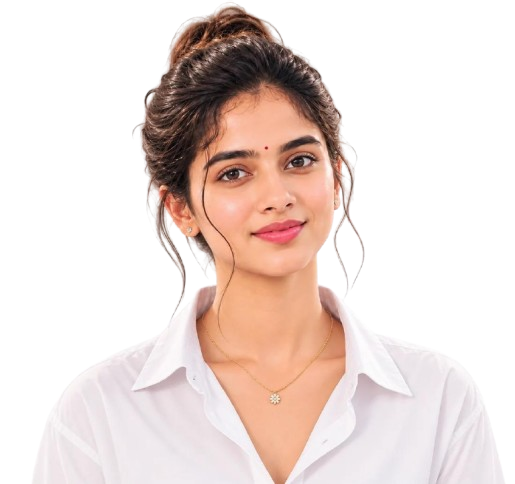
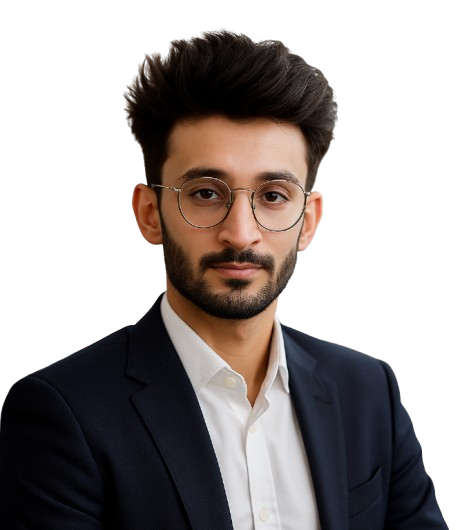
ds

diff --git a/src/data/portfolio.ts b/src/data/portfolio.ts
@@ -1,5 +1,5 @@
 /**
- * Central portfolio data — generated from Sushmita's resume (Sushmita_dasari.pdf).
+ * Central portfolio data — generated from Rayyan's resume (Rayyan_dasari.pdf).
  * Every fact on the site comes from this file. Update it here and the whole site follows.
  * Nothing here should be added unless it appears on the resume.
  */
@@ -7,9 +7,9 @@
 export type Palette = { from: string; via: string; to: string; accent: string };
 
 export const profile = {
-  fullName: 'Dasari Venkata Ratna Sri Sushmita',
-  displayName: 'Sushmita Dasari',
-  firstName: 'SUSHMITA',
+  fullName: 'Dasari Venkata Ratna Sri Rayyan',
+  displayName: 'Rayyan Ali
+  firstName: 'Rayyan',
   seriesTag: 'THE SERIES',
   /** Fictional studio card shown at the very start of the opening sequence. */
   originalLabel: 'A DASARI ORIGINAL',
@@ -18,16 +18,16 @@ export const profile = {
   intro:
     'A B.Tech Artificial Intelligence & Machine Learning student (CGPA 9.10) and full-stack developer building AI-powered platforms, payment systems and multi-tenant SaaS with Java, Python, React, Node.js and Docker.',
   location: 'Surampalem, Andhra Pradesh',
-  email: 'sushmitadasari17@gmail.com',
+  email: 'Rayyandasari17@gmail.com',
   links: {
-    linkedin: 'https://www.linkedin.com/in/sushmita-dasari-227a40284/',
-    github: 'https://github.com/Sushmitadasari',
+    linkedin: 'https://www.linkedin.com/in/Rayyan-dasari-227a40284/',
+    github: 'https://github.com/Rayyandasari',
   },
-  resumePdf: '/assets/Sushmita_Dasari_Resume.pdf',
+  resumePdf: '/assets/Rayyan_Dasari_Resume.pdf',
   portrait: {
     src: '/assets/portrait-720.webp',
     srcSet: '/assets/portrait-420.webp 420w, /assets/portrait-720.webp 720w, /assets/portrait-1100.webp 1100w',
-    alt: 'Portrait of Sushmita Dasari',
+    alt: 'Portrait of Rayyan Ali
   },
   interests: ['System Design', 'Cloud Computing (AWS)', 'Machine Learning'],
 };
@@ -107,8 +107,8 @@ export const projects: Project[] = [
       { value: '45%', label: 'faster decision turnaround' },
       { value: '8', label: 'policy categories' },
     ],
-    // The resume links to https://github.com/Sushmitadasari/PolicyGuard-AI, which is not public yet (404).
-    // Add `github: 'https://github.com/Sushmitadasari/PolicyGuard-AI',` back once the repo is public.
+    // The resume links to https://github.com/Rayyandasari/PolicyGuard-AI, which is not public yet (404).
+    // Add `github: 'https://github.com/Rayyandasari/PolicyGuard-AI',` back once the repo is public.
     palette: { from: '#2a0610', via: '#7a0f24', to: '#0b0710', accent: '#ff3d5a' },
     motif: 'shield',
   },
@@ -136,7 +136,7 @@ export const projects: Project[] = [
       { value: '40%', label: 'faster API response' },
       { value: '3×', label: 'throughput under load' },
     ],
-    github: 'https://github.com/Sushmitadasari/Payment-gateway-system-Project',
+    github: 'https://github.com/Rayyandasari/Payment-gateway-system-Project',
     palette: { from: '#1a0d02', via: '#8a4a07', to: '#0a0806', accent: '#ffb547' },
     motif: 'flow',
   },
@@ -163,7 +163,7 @@ export const projects: Project[] = [
       { value: '0', label: 'unauthorized-access incidents' },
       { value: '45m → <2m', label: 'environment setup time' },
     ],
-    github: 'https://github.com/Sushmitadasari/Multi-Tenant-SaaS-Platform',
+    github: 'https://github.com/Rayyandasari/Multi-Tenant-SaaS-Platform',
     palette: { from: '#04121f', via: '#0f4c6e', to: '#05080d', accent: '#4cc9ff' },
     motif: 'tenants',
   },
@@ -563,7 +563,7 @@ export const introSlides: IntroSlide[] = [
   },
 ];
 
-export type ProfileId = 'sushmita' | 'recruiter' | 'developer' | 'creative';
+export type ProfileId = 'Rayyan' | 'recruiter' | 'developer' | 'creative';
 export type SectionId = 'about' | 'journey' | 'originals' | 'picks' | 'skills' | 'moments' | 'story';
 
 export const viewerProfiles: {
@@ -574,8 +574,8 @@ export const viewerProfiles: {
   order: SectionId[];
 }[] = [
   {
-    id: 'sushmita',
-    name: 'Sushmita',
+    id: 'Rayyan',
+    name: 'Rayyan',
     blurb: 'The full series, in order',
     color: '#e5132b',
     order: ['about', 'journey', 'originals', 'picks', 'skills', 'moments', 'story'],

diff --git a/src/components/ProfileSelector.tsx b/src/components/ProfileSelector.tsx
@@ -6,7 +6,7 @@ import { EASE } from './fx';
 export function ProfileAvatar({ id, size = 'lg' }: { id: ProfileId; size?: 'sm' | 'lg' }) {
   const p = viewerProfiles.find((v) => v.id === id)!;
   const box = size === 'lg' ? 'h-24 w-24 sm:h-32 sm:w-32 md:h-36 md:w-36 rounded-xl' : 'h-8 w-8 rounded-md';
-  if (id === 'sushmita') {
+  if (id === 'Rayyan') {
     return (
       <span className={`relative block overflow-hidden ${box}`} style={{ background: 'radial-gradient(circle at 50% 30%, #7a0f24, #1a0509)' }}>
         <img src="/assets/portrait-420.webp" alt="" className="absolute inset-x-0 bottom-0 mx-auto h-[115%] w-auto max-w-none -translate-x-[3%] object-cover object-top" />
@@ -27,7 +27,7 @@ export function ProfileAvatar({ id, size = 'lg' }: { id: ProfileId; size?: 'sm' 
 export default function ProfileSelector({ onPick }: { onPick: (id: ProfileId) => void }) {
   useEffect(() => {
     const onKey = (e: KeyboardEvent) => {
-      if (e.key === 'Escape') onPick('sushmita');
+      if (e.key === 'Escape') onPick('Rayyan');
     };
     window.addEventListener('keydown', onKey);
     return () => window.removeEventListener('keydown', onKey);
@@ -63,7 +63,7 @@ export default function ProfileSelector({ onPick }: { onPick: (id: ProfileId) =>
             <button type="button" onClick={() => onPick(p.id)} data-cursor="play" className="group flex flex-col items-center gap-3 text-center">
               <span className="relative rounded-xl ring-2 ring-transparent transition duration-300 group-hover:scale-105 group-hover:ring-bone group-focus-visible:ring-bone">
                 <ProfileAvatar id={p.id} />
-                {p.id === 'sushmita' && (
+                {p.id === 'Rayyan' && (
                   <span className="absolute -right-2 -top-2 rounded-full bg-crimson px-2 py-0.5 text-[9px] font-bold tracking-[0.18em] text-white">MAIN</span>
                 )}
               </span>

diff --git a/src/components/ResumeModal.tsx b/src/components/ResumeModal.tsx
@@ -30,7 +30,7 @@ export default function ResumeModal({ onClose }: { onClose: () => void }) {
       <div className="gutter flex h-16 shrink-0 items-center justify-between gap-3 pt-[env(safe-area-inset-top)]">
         <p className="truncate font-display text-2xl tracking-wide text-bone">The Full Story</p>
         <div className="flex items-center gap-2">
-          <a href={profile.resumePdf} download="Sushmita_Dasari_Resume.pdf" className="rounded-md bg-bone px-4 py-2 text-xs font-bold text-ink">
+          <a href={profile.resumePdf} download="Rayyan_Dasari_Resume.pdf" className="rounded-md bg-bone px-4 py-2 text-xs font-bold text-ink">
             ⤓ Download
           </a>
           <button type="button" onClick={onClose} aria-label="Close resume" data-cursor="close" className="flex h-10 w-10 items-center justify-center rounded-full bg-white/10 text-bone hover:bg-white/20">
@@ -52,7 +52,7 @@ export default function ResumeModal({ onClose }: { onClose: () => void }) {
             </a>
           </div>
         ) : (
-          <iframe title="Sushmita Dasari resume (PDF)" src={`${profile.resumePdf}#view=FitH`} className="h-full w-full rounded-xl bg-white" />
+          <iframe title="Rayyan Ali resume (PDF)" src={`${profile.resumePdf}#view=FitH`} className="h-full w-full rounded-xl bg-white" />
         )}
       </motion.div>
     </motion.div>

diff --git a/index.html b/index.html
@@ -3,10 +3,10 @@
   <head>
     <meta charset="UTF-8" />
     <meta name="viewport" content="width=device-width, initial-scale=1.0, viewport-fit=cover" />
-    <title>Sushmita — The Series</title>
-    <meta name="description" content="Sushmita Dasari — Full-Stack Developer and B.Tech AI & ML student. A cinematic, streaming-inspired portfolio." />
+    <title>Rayyan — The Series</title>
+    <meta name="description" content="Rayyan Ali — Full-Stack Developer and B.Tech AI & ML student. A cinematic, streaming-inspired portfolio." />
     <meta name="theme-color" content="#07070a" />
-    <meta property="og:title" content="Sushmita — The Series" />
+    <meta property="og:title" content="Rayyan — The Series" />
     <meta property="og:description" content="Full-Stack Developer • AI / ML • Java. Every project is an Original." />
     <meta property="og:image" content="/assets/og-image.jpg" />
     <meta name="twitter:card" content="summary_large_image" />
@@ -18,7 +18,7 @@
   </head>
   <body>
     <div id="root"></div>
-    <noscript>Sushmita Dasari — Full-Stack Developer. Please enable JavaScript to watch the series.</noscript>
+    <noscript>Rayyan Ali — Full-Stack Developer. Please enable JavaScript to watch the series.</noscript>
     <script type="module" src="/src/main.tsx"></script>
   </body>
 </html>

diff --git a/src/App.tsx b/src/App.tsx
@@ -26,7 +26,7 @@ const ResumeModal = lazy(() => import('./components/ResumeModal'));
 
 type Stage = 'opening' | 'profiles' | 'home';
 
-const STORAGE_KEY = 'sushmita-series-profile';
+const STORAGE_KEY = 'Rayyan-series-profile';
 
 function readStoredProfile(): ProfileId | null {
   try {
@@ -48,7 +48,7 @@ export default function App() {
 function Series() {
   const stored = readStoredProfile();
   const [stage, setStage] = useState<Stage>(stored ? 'home' : 'opening');
-  const [profileId, setProfileId] = useState<ProfileId>(stored ?? 'sushmita');
+  const [profileId, setProfileId] = useState<ProfileId>(stored ?? 'Rayyan');
   const [playing, setPlaying] = useState(false);
   const [project, setProject] = useState<Project | null>(null);
   const [resumeOpen, setResumeOpen] = useState(false);

diff --git a/src/components/Originals.tsx b/src/components/Originals.tsx
@@ -41,7 +41,7 @@ function Outro() {
     >
       <span className="flex h-16 w-16 items-center justify-center rounded-full border border-white/25 text-2xl text-bone transition group-hover:scale-110 group-hover:border-crimson-2 group-hover:text-crimson-2">↗</span>
       <span className="font-display text-3xl tracking-wide text-bone">More on GitHub</span>
-      <span className="text-xs text-mist">github.com/Sushmitadasari</span>
+      <span className="text-xs text-mist">github.com/Rayyandasari</span>
     </a>
   );
 }

diff --git a/src/components/ResumeViewer.tsx b/src/components/ResumeViewer.tsx
@@ -38,7 +38,7 @@ export default function ResumeSection({ onView }: { onView: () => void }) {
             <Magnetic className="w-full">
               <a
                 href={profile.resumePdf}
-                download="Sushmita_Dasari_Resume.pdf"
+                download="Rayyan_Dasari_Resume.pdf"
                 data-cursor="link"
                 className="glass flex min-h-12 w-full items-center justify-center gap-2 rounded-md px-6 text-[15px] font-semibold text-bone transition hover:bg-white/15"
               >

diff --git a/src/components/TopPicks.tsx b/src/components/TopPicks.tsx
@@ -9,7 +9,7 @@ export default function TopPicks() {
   const rail = useRef<HTMLDivElement>(null);
   return (
     <>
-      <SectionHeading kicker="Top 10 · from the resume" title="Sushmita's Top Picks" />
+      <SectionHeading kicker="Top 10 · from the resume" title="Rayyan's Top Picks" />
       <div className="group/rail relative">
         <div ref={rail} className="rail gutter flex snap-x snap-mandatory gap-2 overflow-x-auto py-6">
           {topPicks.map((pick, i) => (

diff --git a/src/components/OpeningSequence.tsx b/src/components/OpeningSequence.tsx
@@ -6,7 +6,7 @@ import { EASE, Magnetic } from './fx';
 
 /**
  * The signature moment:
- * black → studio card → SUSHMITA → THE SERIES → portrait reveal → role → ▶ PLAY
+ * black → studio card → Rayyan → THE SERIES → portrait reveal → role → ▶ PLAY
  */
 const TIMELINE = [
   { at: 300, beat: 1 }, // studio card

diff --git a/README.md b/README.md
@@ -1,6 +1,6 @@
-# SUSHMITA — THE SERIES
+# Rayyan — THE SERIES
 
-A cinematic, streaming-inspired portfolio for **Sushmita Dasari**: Full-Stack Developer and B.Tech AI & ML student.
+A cinematic, streaming-inspired portfolio for **Rayyan Ali**: Full-Stack Developer and B.Tech AI & ML student.
 Every section is an episode, every project is an Original, and the whole site plays like a series.
 
 > A personal portfolio with a fictional streaming-platform look. It is not affiliated with Netflix or any other streaming service and uses none of their logos.
@@ -41,7 +41,7 @@ The static site is written to `dist/` and can be deployed as-is to Vercel, Netli
 | Profile order (Recruiter / Developer / Creative) | `viewerProfiles` |
 | Opening studio card text | `profile.originalLabel` |
 
-**Resume:** replace `public/assets/Sushmita_Dasari_Resume.pdf`.
+**Resume:** replace `public/assets/Rayyan_Dasari_Resume.pdf`.
 
 **Photo:** replace `pic1.jpeg` (high-res photo) and `pic.png` (background-removed cutout with the same framing), then run:
 
@@ -58,7 +58,7 @@ src/
   data/portfolio.ts        ← single source of truth (from the resume)
   App.tsx                  ← stages: opening → profile select → home; overlays
   components/
-    OpeningSequence        ← black → studio card → SUSHMITA → THE SERIES → portrait → ▶ PLAY
+    OpeningSequence        ← black → studio card → Rayyan → THE SERIES → portrait → ▶ PLAY
     ProfileSelector        ← "Who's watching?" (changes section order only)
     Navbar                 ← hide-on-scroll nav, profile switcher, mobile menu
     Hero                   ← billboard: parallax portrait, particles, light streaks, floating chips
